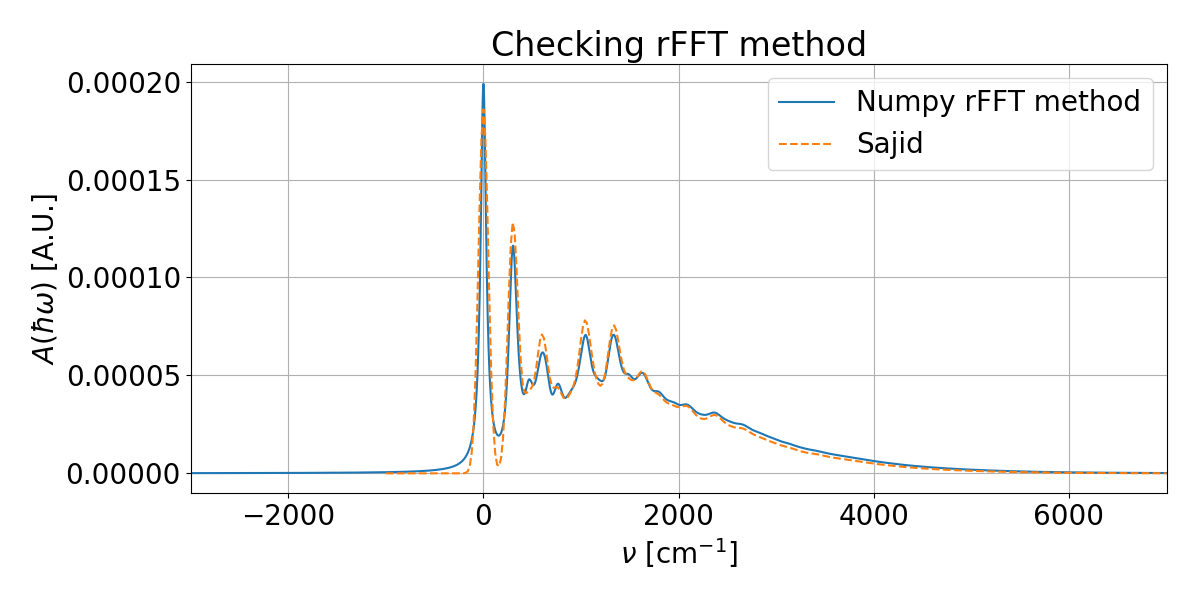
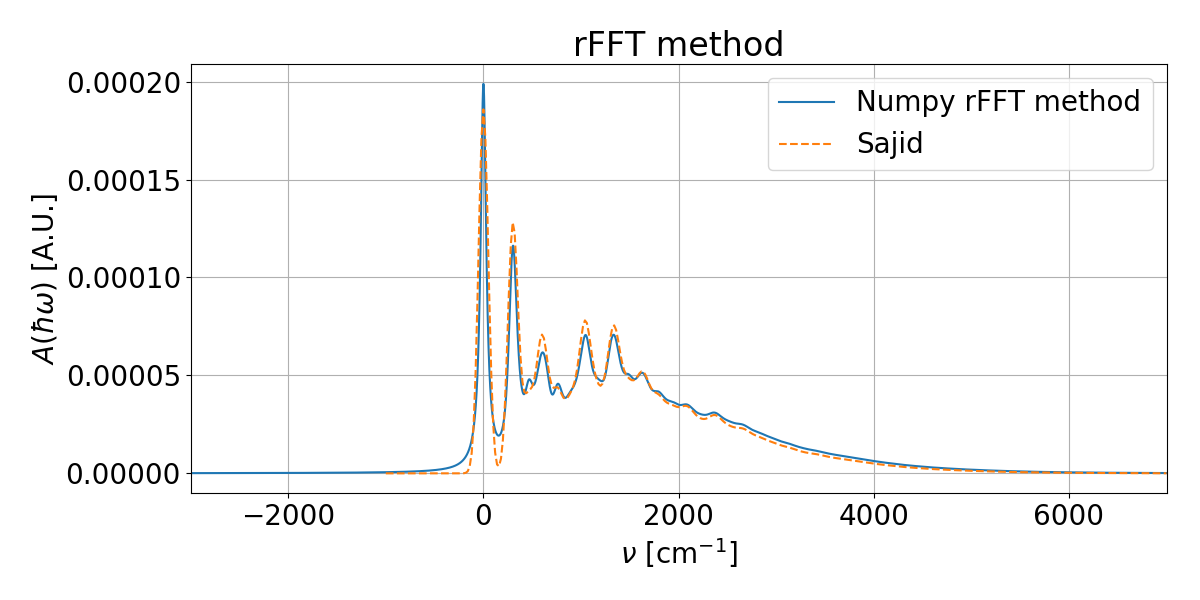
Working T = 0 sideband spectrum calculator

Changed region(s): [[0.4008, 0.03, 0.74, 0.12]]

diff --git a/Finite Temperature/main_finite_temp.py b/Finite Temperature/main_finite_temp.py
@@ -52,6 +52,7 @@ def phonon_correlation_function(omegas, spectral_data, beta):
     return trange, corr_func * dw
 
 
+# Wrapper to calculate spectrum (OBS only beta = None works for now!)
 def get_spectal_function(omegas, huang_rhys_factors, angular_frequencies_HRF):
     # Getting S(omega)
     spectral_function = np.zeros_like(omegas)
@@ -68,6 +69,20 @@ def get_spectal_function(omegas, huang_rhys_factors, angular_frequencies_HRF):
 
 
 
+def get_sideband_spectrum(omegas, huang_rhys_factors, frequencies, gamma, gamma2, beta):
+    # Getting spectral function
+    spectral_function, s0 = get_spectal_function(omegas, huang_rhys_factors, frequencies)
+    times, td_spectral_function = phonon_correlation_function(omegas, spectral_function, beta)
+    
+
+    # Generating spectrum
+    G = np.exp(td_spectral_function - s0)*np.exp(-gamma2*times)
+    A = fftshift(np.fft.irfft(G))
+    
+
+    return A
+
+
 # Broadening parameters
 gamma = 120
 gamma2 = 220
@@ -76,16 +91,13 @@ gamma2 = 220
 # Temperature parameter
 beta = None
 
-
 # Setting up the domains
 dt = 0.00001
 N = 18
 N_max = 2**N # In principle this should be 2**N
-times = np.arange(0, N_max)*dt
-omegas = times/dt*(2*np.pi/(N_max*dt)) # Centered around zero!
+# times = np.arange(0, N_max)*dt
+omegas = np.arange(0, N_max)*(2*np.pi/(N_max*dt)) # Centered around zero!
 dw = abs(omegas[1] - omegas[0])
-
-# megas = np.fft.rfftfreq(N_max, d = dw)
 
 
 # First we need to load in the relevant data
@@ -100,34 +112,18 @@ freqs_sajid = df_Sajid_spectrum["Freq.(1000 cm^-1)"]*1000
 emissions_sajid = df_Sajid_spectrum["Emissin.(band strenght)"]
 dw_sajid = abs(np.diff(freqs_sajid)[0])
 
-
-# Getting spectral function
-spectral_function, s0 = get_spectal_function(omegas, huang_rhys_factors, frequencies)
-# Getting phonon correlation function
-times, td_spectral_function = phonon_correlation_function(omegas, spectral_function, None)
+# Getting the spectrum
+A = get_sideband_spectrum(omegas, huang_rhys_factors, frequencies, gamma, gamma2, beta)
 
 
-
-fig = plt.figure(figsize=(12, 6))
-plt.plot(times, td_spectral_function)
-fig.savefig("St_test.png")
-
-
-G = np.exp(td_spectral_function - s0)*np.exp(-gamma2*times)
-A = fftshift(np.fft.irfft(G))
-
-print(gamma)
-print(gamma2)
-fig = plt.figure(figsize=(12, 6))
-plt.plot(omegas - np.max(omegas)/2, A)
-# plt.xlim([-3000, 10000])
-fig.savefig("test_A.png")
-
+# Normalization
 A = A/(np.trapz(A, dx = dw))
 emissions_sajid = emissions_sajid/np.trapz(emissions_sajid, dx = 2*np.pi*dw_sajid)
 
+
+# Visualization
 fig = plt.figure(figsize=(12, 6))
-plt.title("Checking rFFT method")
+plt.title("rFFT method")
 plt.plot((omegas - np.max(omegas)/2)/(2*np.pi), A, label = "Numpy rFFT method")
 plt.plot(freqs_sajid, emissions_sajid, label = "Sajid", linestyle = "--")
 plt.xlim([-3000, np.max(freqs_sajid)])

diff --git a/Finite Temperature/working_rfft_zeroT_version.py b/Finite Temperature/working_rfft_zeroT_version.py
@@ -52,6 +52,7 @@ def phonon_correlation_function(omegas, spectral_data, beta):
     return trange, corr_func * dw
 
 
+# Wrapper to calculate spectrum (OBS only beta = None works for now!)
 def get_spectal_function(omegas, huang_rhys_factors, angular_frequencies_HRF):
     # Getting S(omega)
     spectral_function = np.zeros_like(omegas)
@@ -68,6 +69,20 @@ def get_spectal_function(omegas, huang_rhys_factors, angular_frequencies_HRF):
 
 
 
+def get_sideband_spectrum(omegas, huang_rhys_factors, frequencies, gamma, gamma2, beta):
+    # Getting spectral function
+    spectral_function, s0 = get_spectal_function(omegas, huang_rhys_factors, frequencies)
+    times, td_spectral_function = phonon_correlation_function(omegas, spectral_function, beta)
+    
+
+    # Generating spectrum
+    G = np.exp(td_spectral_function - s0)*np.exp(-gamma2*times)
+    A = fftshift(np.fft.irfft(G))
+    
+
+    return A
+
+
 # Broadening parameters
 gamma = 120
 gamma2 = 220
@@ -76,16 +91,13 @@ gamma2 = 220
 # Temperature parameter
 beta = None
 
-
 # Setting up the domains
 dt = 0.00001
 N = 18
 N_max = 2**N # In principle this should be 2**N
-times = np.arange(0, N_max)*dt
-omegas = times/dt*(2*np.pi/(N_max*dt)) # Centered around zero!
+# times = np.arange(0, N_max)*dt
+omegas = np.arange(0, N_max)*(2*np.pi/(N_max*dt)) # Centered around zero!
 dw = abs(omegas[1] - omegas[0])
-
-# megas = np.fft.rfftfreq(N_max, d = dw)
 
 
 # First we need to load in the relevant data
@@ -100,34 +112,18 @@ freqs_sajid = df_Sajid_spectrum["Freq.(1000 cm^-1)"]*1000
 emissions_sajid = df_Sajid_spectrum["Emissin.(band strenght)"]
 dw_sajid = abs(np.diff(freqs_sajid)[0])
 
-
-# Getting spectral function
-spectral_function, s0 = get_spectal_function(omegas, huang_rhys_factors, frequencies)
-# Getting phonon correlation function
-times, td_spectral_function = phonon_correlation_function(omegas, spectral_function, None)
+# Getting the spectrum
+A = get_sideband_spectrum(omegas, huang_rhys_factors, frequencies, gamma, gamma2, beta)
 
 
-
-fig = plt.figure(figsize=(12, 6))
-plt.plot(times, td_spectral_function)
-fig.savefig("St_test.png")
-
-
-G = np.exp(td_spectral_function - s0)*np.exp(-gamma2*times)
-A = fftshift(np.fft.irfft(G))
-
-print(gamma)
-print(gamma2)
-fig = plt.figure(figsize=(12, 6))
-plt.plot(omegas - np.max(omegas)/2, A)
-# plt.xlim([-3000, 10000])
-fig.savefig("test_A.png")
-
+# Normalization
 A = A/(np.trapz(A, dx = dw))
 emissions_sajid = emissions_sajid/np.trapz(emissions_sajid, dx = 2*np.pi*dw_sajid)
 
+
+# Visualization
 fig = plt.figure(figsize=(12, 6))
-plt.title("Checking rFFT method")
+plt.title("rFFT method")
 plt.plot((omegas - np.max(omegas)/2)/(2*np.pi), A, label = "Numpy rFFT method")
 plt.plot(freqs_sajid, emissions_sajid, label = "Sajid", linestyle = "--")
 plt.xlim([-3000, np.max(freqs_sajid)])
